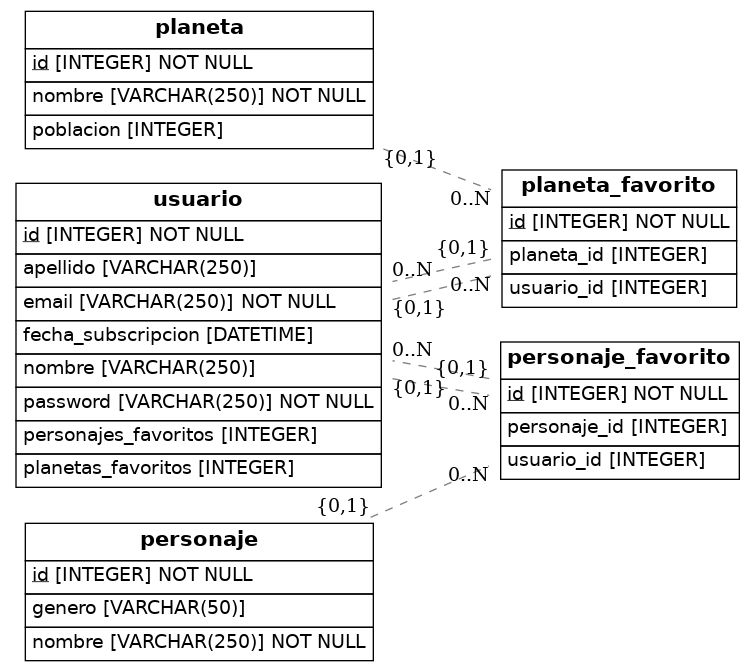
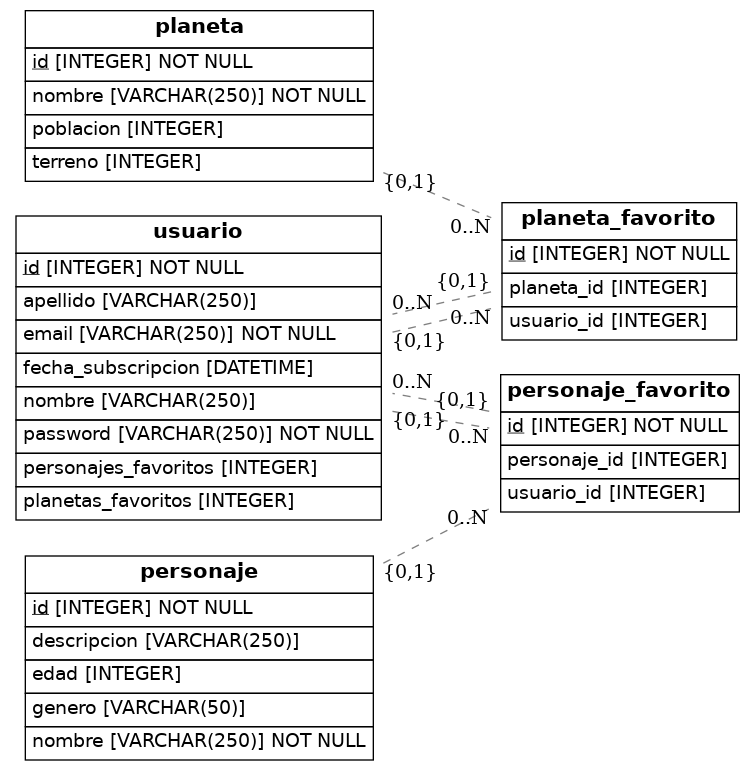
exercise done

Changed region(s): [[0.0305, 0.2385, 0.9748, 1.0], [0.0305, 0.0, 0.5483, 0.2385], [0.9748, 0.6855, 1.0, 0.7154]]

diff --git a/src/models.py b/src/models.py
@@ -16,7 +16,6 @@ class Usuario(Base):
     nombre = Column(String(250))
     apellido = Column(String(250))
     fecha_subscripcion = Column(DateTime)
-
     planetas_favoritos = Column(Integer, ForeignKey('planeta_favorito'))
     personajes_favoritos = Column(Integer, ForeignKey('personaje_favorito'))
 
@@ -25,6 +24,7 @@ class Planeta(Base):
     id = Column(Integer, primary_key=True)
     nombre = Column(String(250), nullable=False)
     poblacion = Column(Integer)
+    terreno = Column(Integer)
 
 
 class Personaje(Base):
@@ -32,6 +32,8 @@ class Personaje(Base):
     id = Column(Integer, primary_key=True)
     nombre = Column(String(250), nullable=False)
     genero = Column(String(50))
+    descripcion = Column(String(250))
+    edad = Column(Integer)
 
 
 class PlanetaFavorito(Base):
